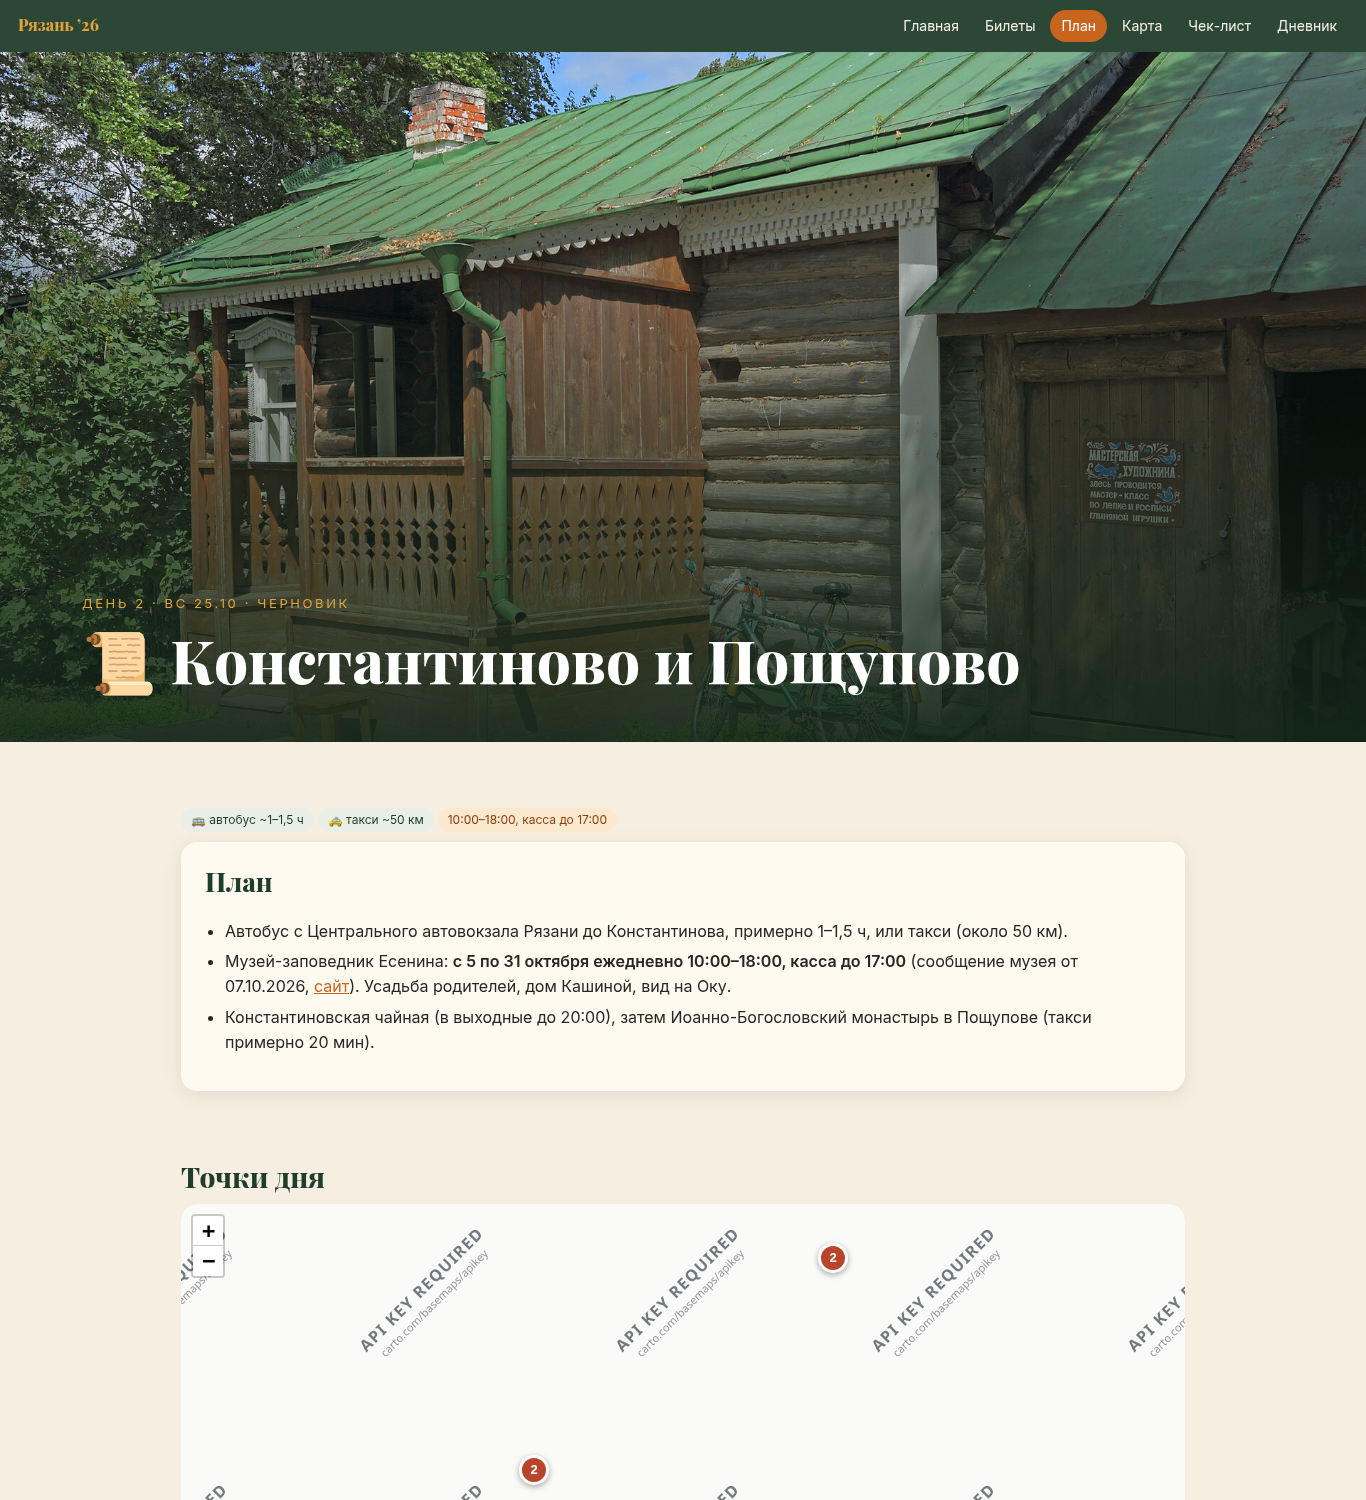
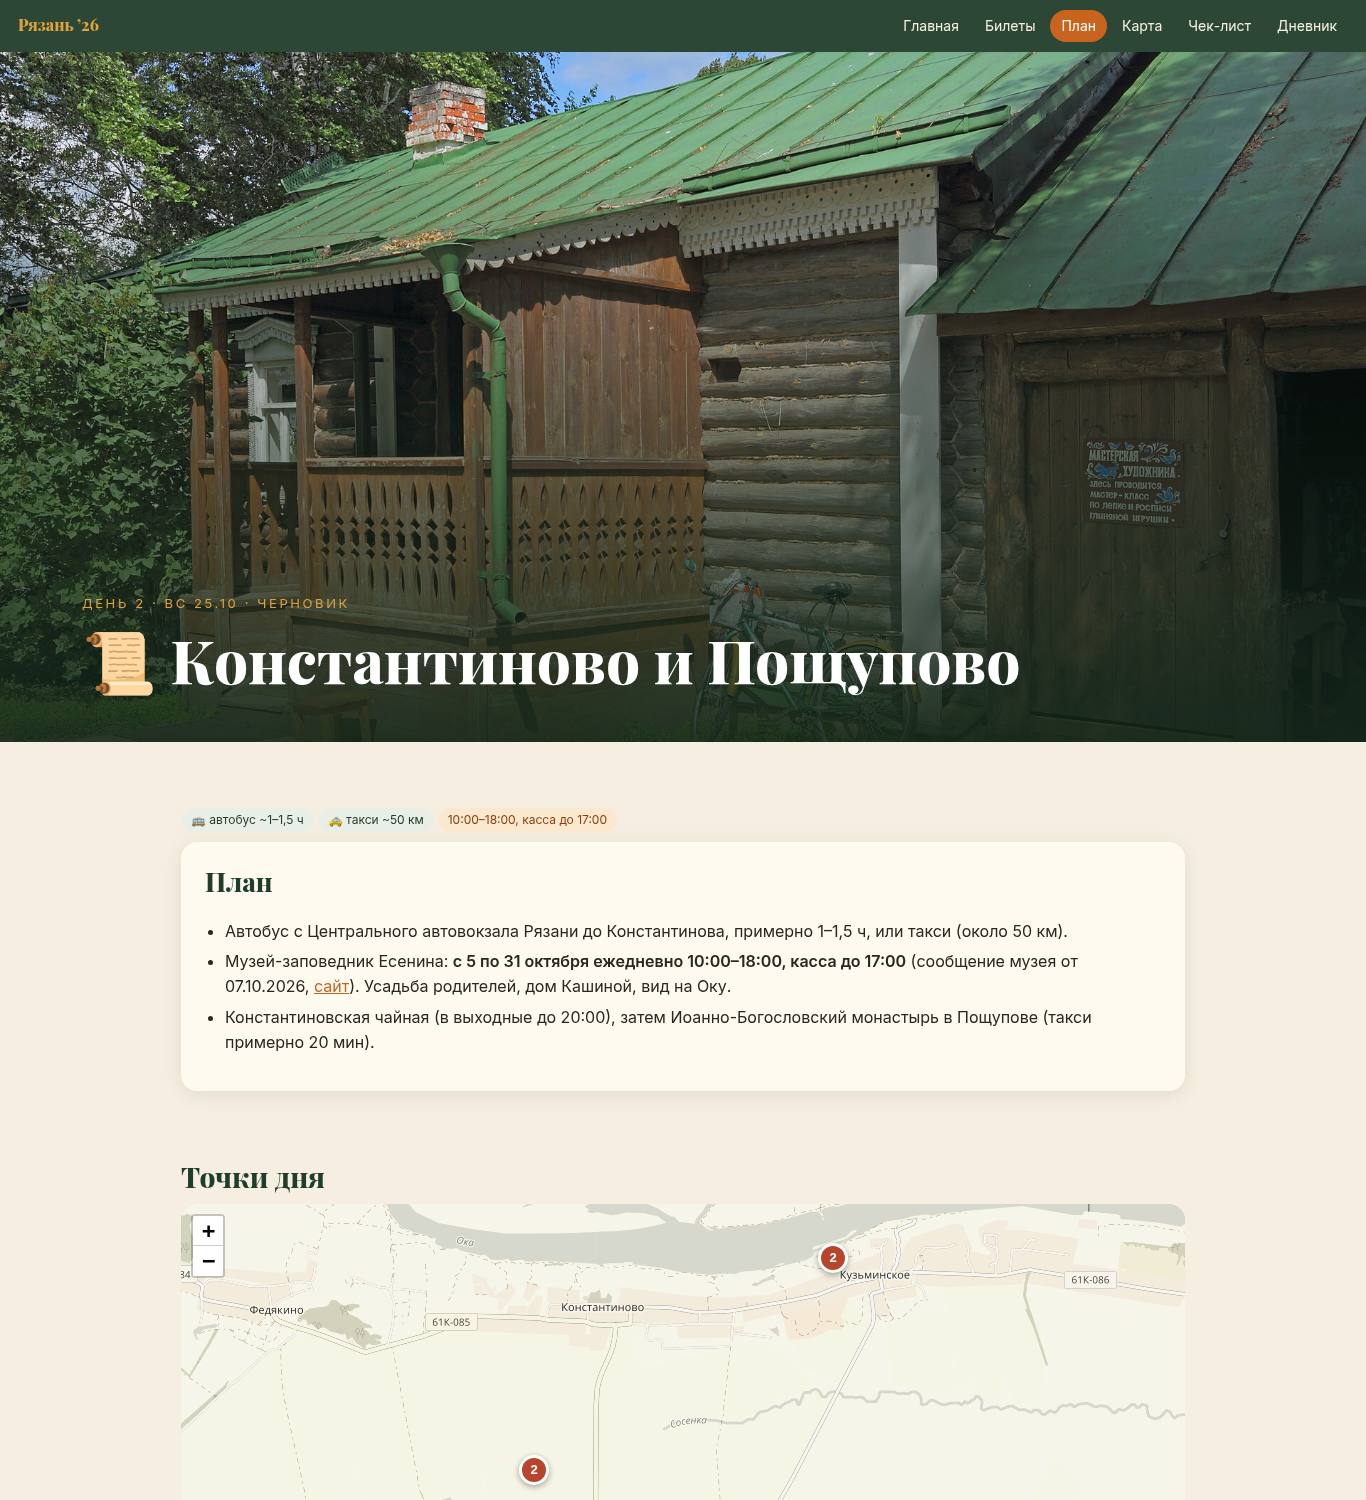
Fix hero path

diff --git a/assets/style.css b/assets/style.css
@@ -5,7 +5,7 @@ body{margin:0;font-family:Inter,system-ui,sans-serif;background:var(--paper);col
 h1,h2,h3{font-family:'Playfair Display',Georgia,serif;margin:0}a{color:var(--o)}
 nav{position:sticky;top:0;z-index:1000;background:rgba(31,61,43,.94);backdrop-filter:blur(6px);display:flex;gap:4px;align-items:center;padding:10px 18px;overflow-x:auto;white-space:nowrap}
 nav b{font-family:'Playfair Display',serif;color:var(--a);margin-right:12px}nav a{color:#f6efe1;text-decoration:none;font-size:14px;padding:5px 11px;border-radius:999px}nav a:hover{background:#ffffff1f}
-.hero{position:relative;min-height:78vh;display:flex;align-items:flex-end;color:#fff;background:#1f3d2b url(img/kremlin.jpg) center 40%/cover}
+.hero{position:relative;min-height:78vh;display:flex;align-items:flex-end;color:#fff;background:#1f3d2b url(../img/kremlin.jpg) center 40%/cover}
 .hero:before{content:"";position:absolute;inset:0;background:linear-gradient(180deg,#0000 20%,#132619e6 100%)}
 .hero .in{position:relative;padding:48px 6vw;max-width:900px}.kick{letter-spacing:.2em;text-transform:uppercase;font-size:13px;color:var(--a)}
 .hero h1{font-size:clamp(40px,8vw,84px);line-height:1.02;margin:8px 0 14px}.hero h1 i{color:var(--a)}.hero p{font-size:18px;opacity:.92;margin:0}
